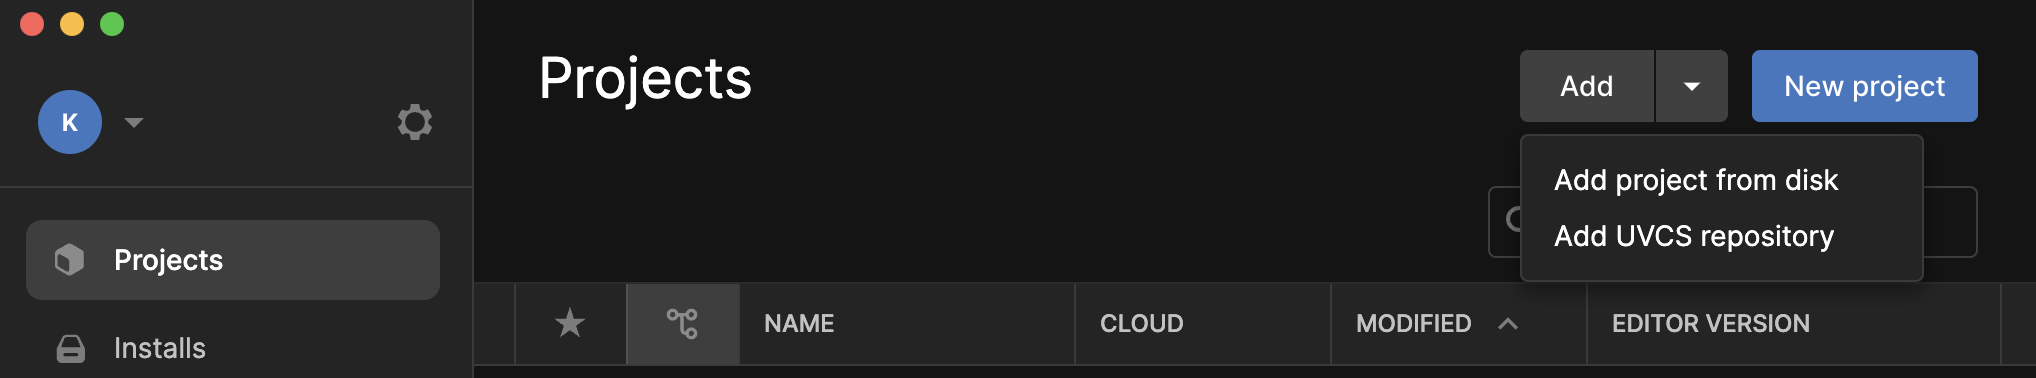
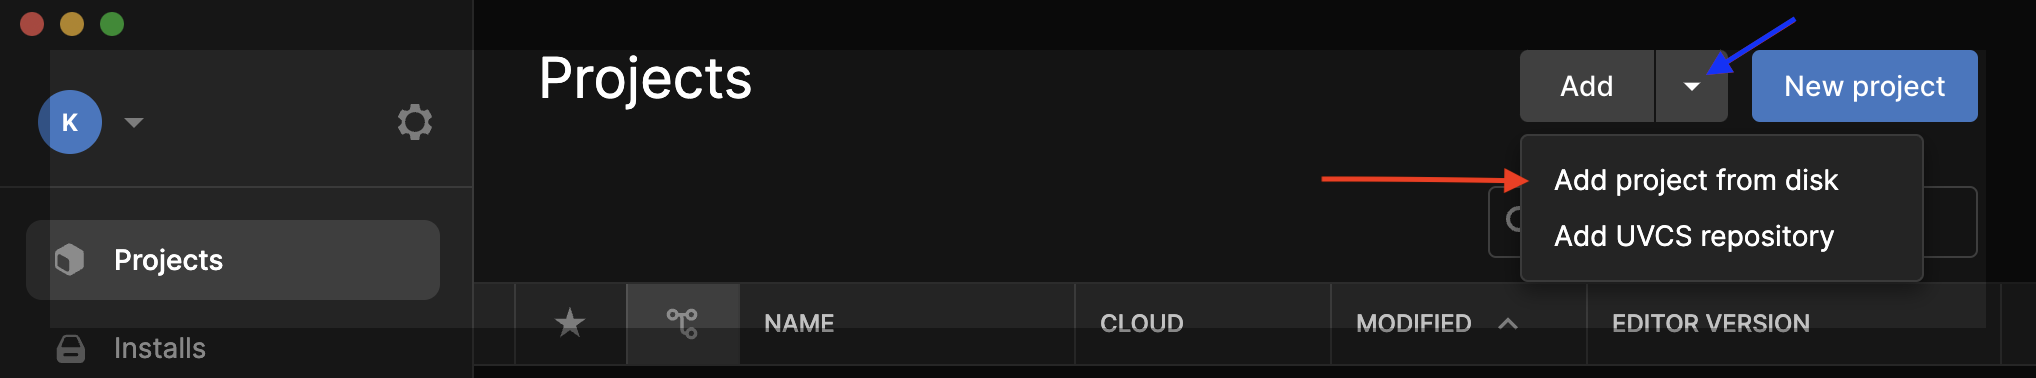
update readme

diff --git a/README.md b/README.md
@@ -2,11 +2,12 @@
 
 ## ** Description du projet **
 
-## Installation
+## Installation et utilisation
 
-1. Installez Unity ainsi que la version 2022.3.17f1.
-2. Clonez le projet sur votre machine.
-3. Ajoutez le projet dans le Unity Hub en cliquant sur la fleche a droite de add puis cliquer sur "Add project from disk", selectionnez projet.
+1. Installez Unity Hub ainsi que la version 2022.3.17f1.
+2. Clonez le projet github sur votre machine.
+3. Ajoutez le projet dans le Unity Hub en cliquant sur la fleche a droite de add (fleche bleue) puis cliquer sur "Add project from disk" (fleche rouge), puis selectionnez projet.
 ![test](/image/UnityHub.png)
+4. Le projet nommé PANDROIDE apparait dans la liste cliquez dessus pour l'ouvrir.
 4. Vous trouverez dans le dossier Assets/FinalScene une scène nommée FinalSceneMR, cliquez dessus.
  
